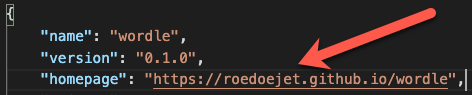
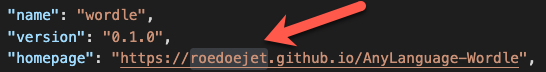
fix: change github link

Changed region(s): [[0.0, 0.0833, 1.0, 0.9722], [0.4746, 0.0, 0.6822, 0.6389], [0.0, 0.0278, 0.2966, 0.3056]]

diff --git a/_posts/2022-01-25-wordle.md b/_posts/2022-01-25-wordle.md
@@ -88,7 +88,7 @@ After that little proviso, you can publish to your GitHub by changing the `homep
 
 {% picture homepage-gh.png %}
 
-Then, run `npm run-script deploy` and then visit your Wordle at that address: https://yourusername.github.io/wordle
+Then, run `npm run-script deploy` and then visit your Wordle at that address: https://yourusername.github.io/AnyLanguage-Wordle
 
 You can change the words or make other changes and then deploy again. Congratulations - you did it!
 
